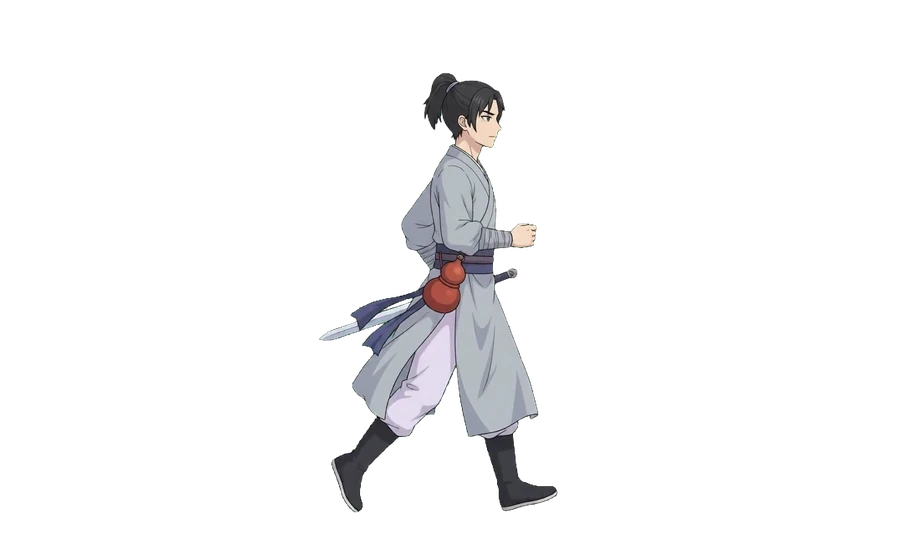
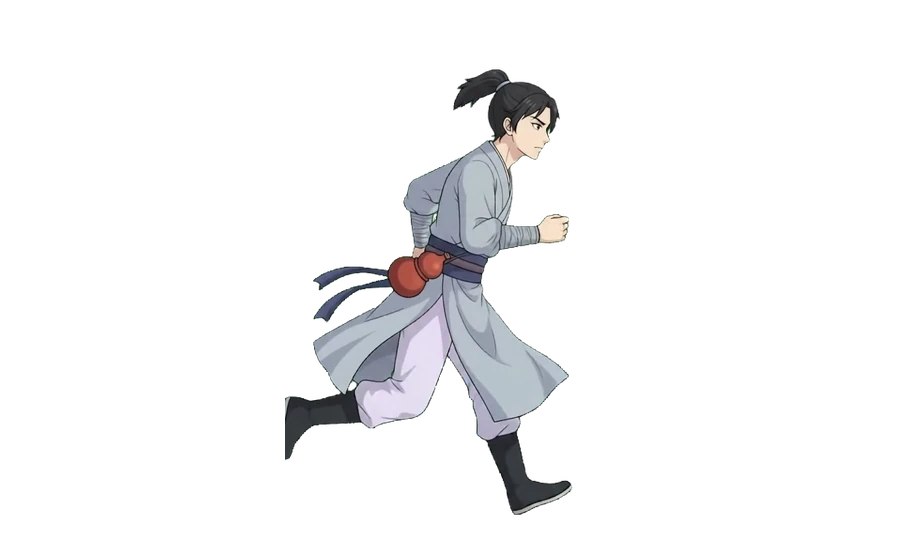
v0.4.8 衝刺跑步圖、主角與第1關Boss放大1.5倍
Claude-Session: https://claude.ai/code/session_019t36GoBfXHsKWLHedQwxz2

Changed region(s): [[0.3111, 0.1214, 0.6533, 0.9411]]

diff --git a/index.html b/index.html
@@ -4893,7 +4893,7 @@
           ];
           const MB1_IMGS = {};
           let MB1_READY = 0;
-          const MB1_SCALE = 0.34;
+          const MB1_SCALE = 0.51;
 
           MB1_NAMES.forEach(name => {
             const img = new Image();
@@ -5480,7 +5480,7 @@
       ];
       const MC_IMGS = {};
       let MC_READY = 0;
-      const MC_SCALE = 0.27;
+      const MC_SCALE = 0.405;
       const MC_FRAME_SCALE = { "11_thrust": 1.12 };
 
       MC_NAMES.forEach(name => {
@@ -5491,7 +5491,7 @@
         MC_IMGS[name] = img;
       });
 
-      const MC_STRIDE = 220;
+      const MC_STRIDE = 200;
       let MC_PHASE = 0;
       let MC_LASTX = null;
       const MCR_IMGS = [];
